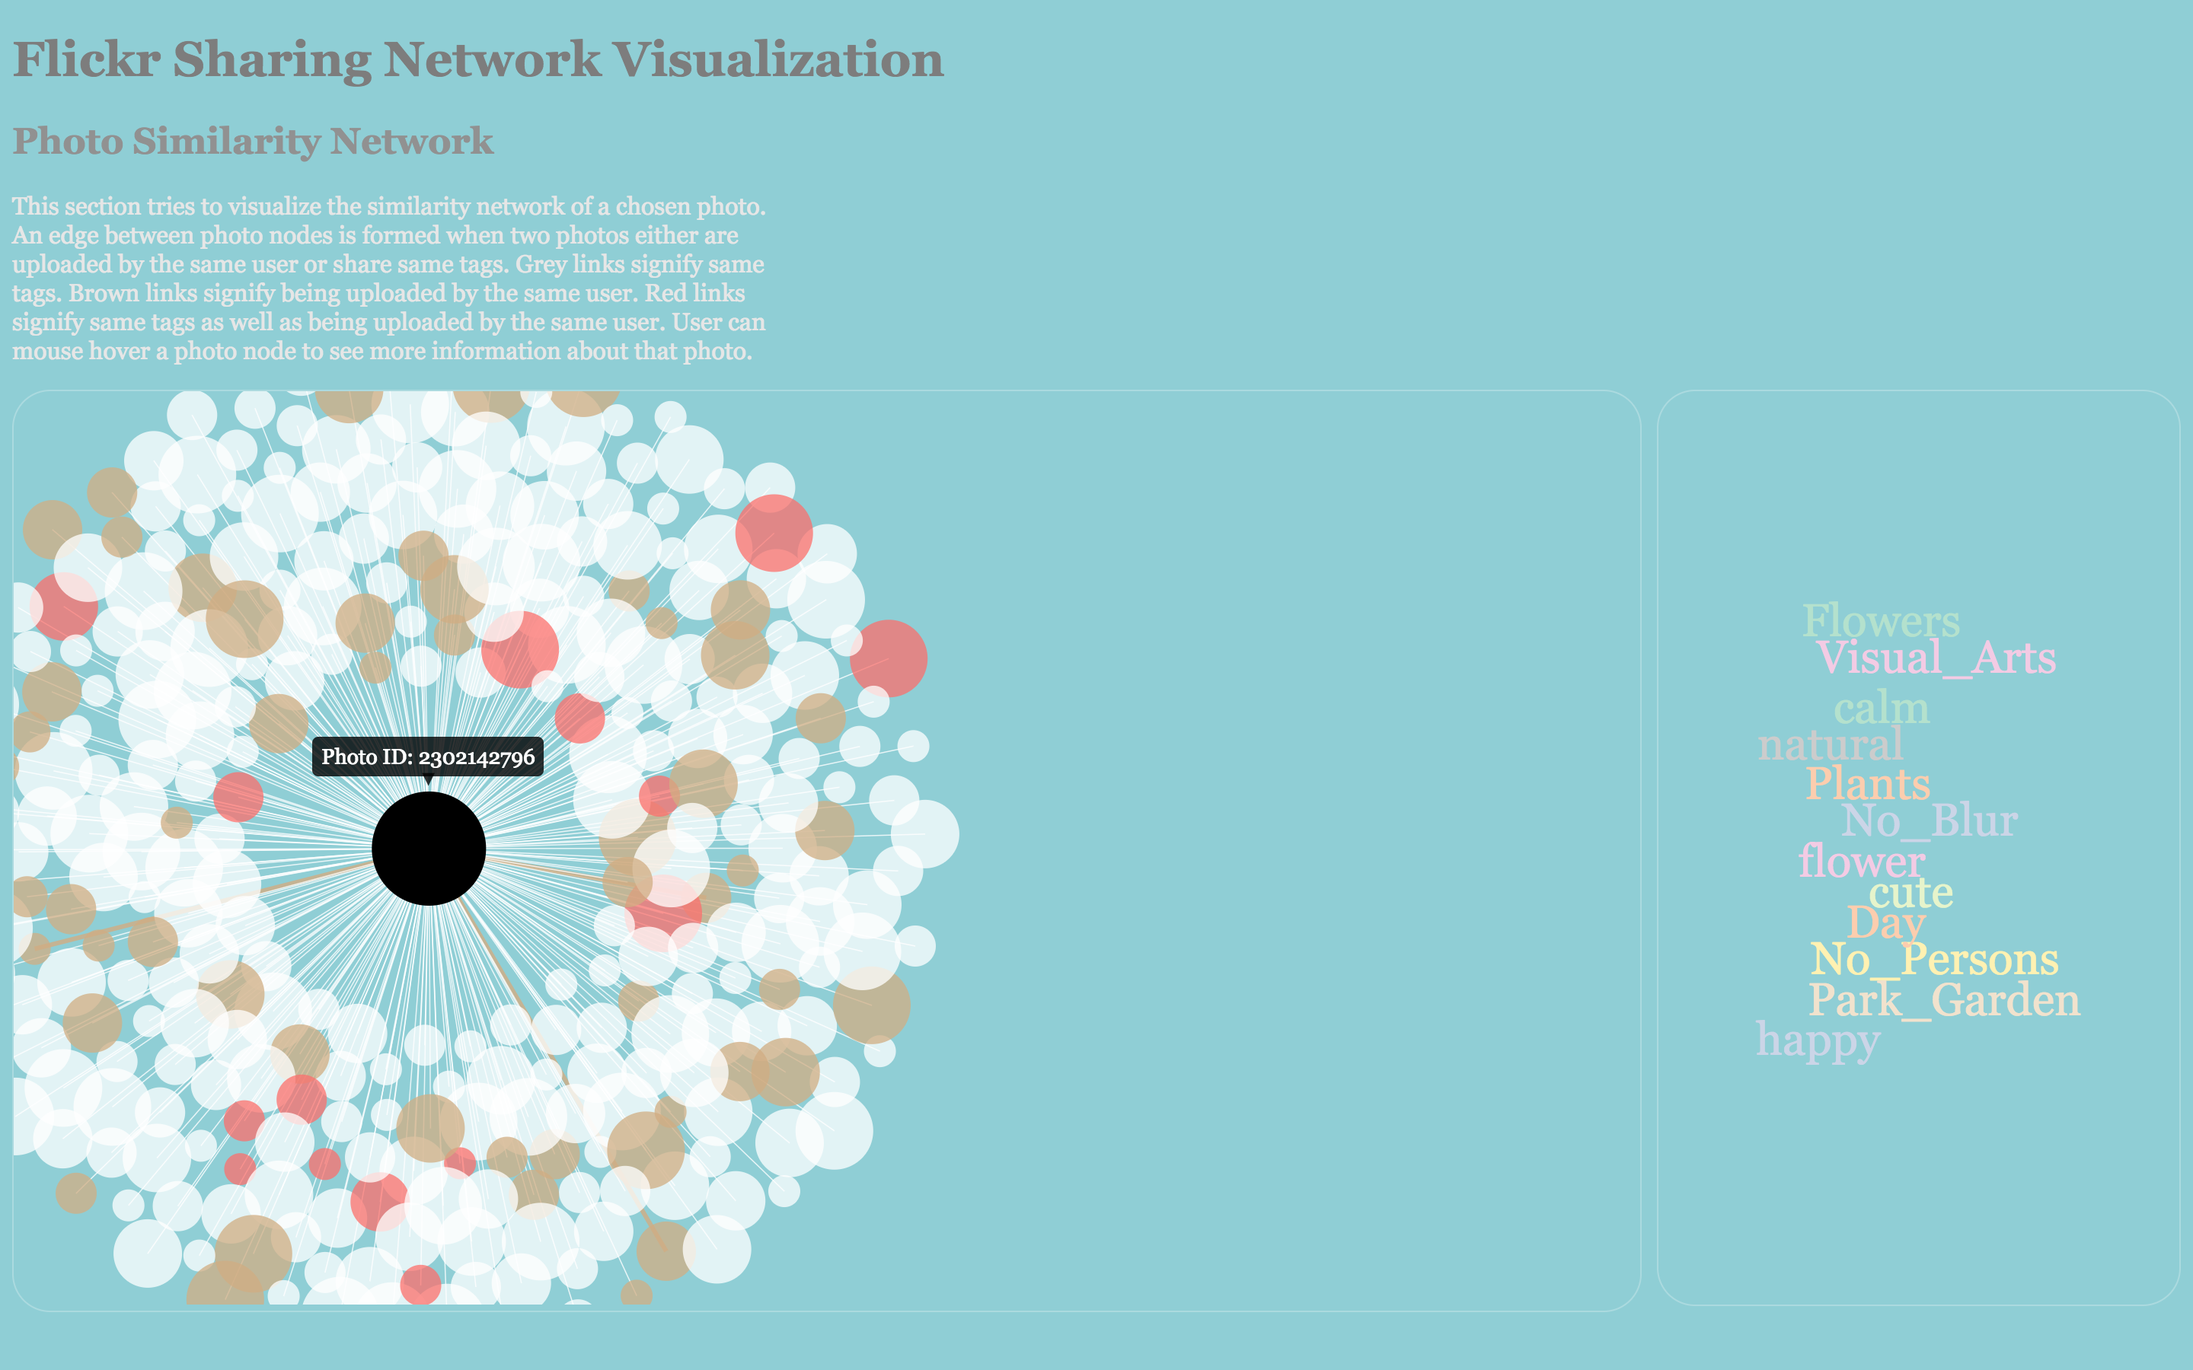
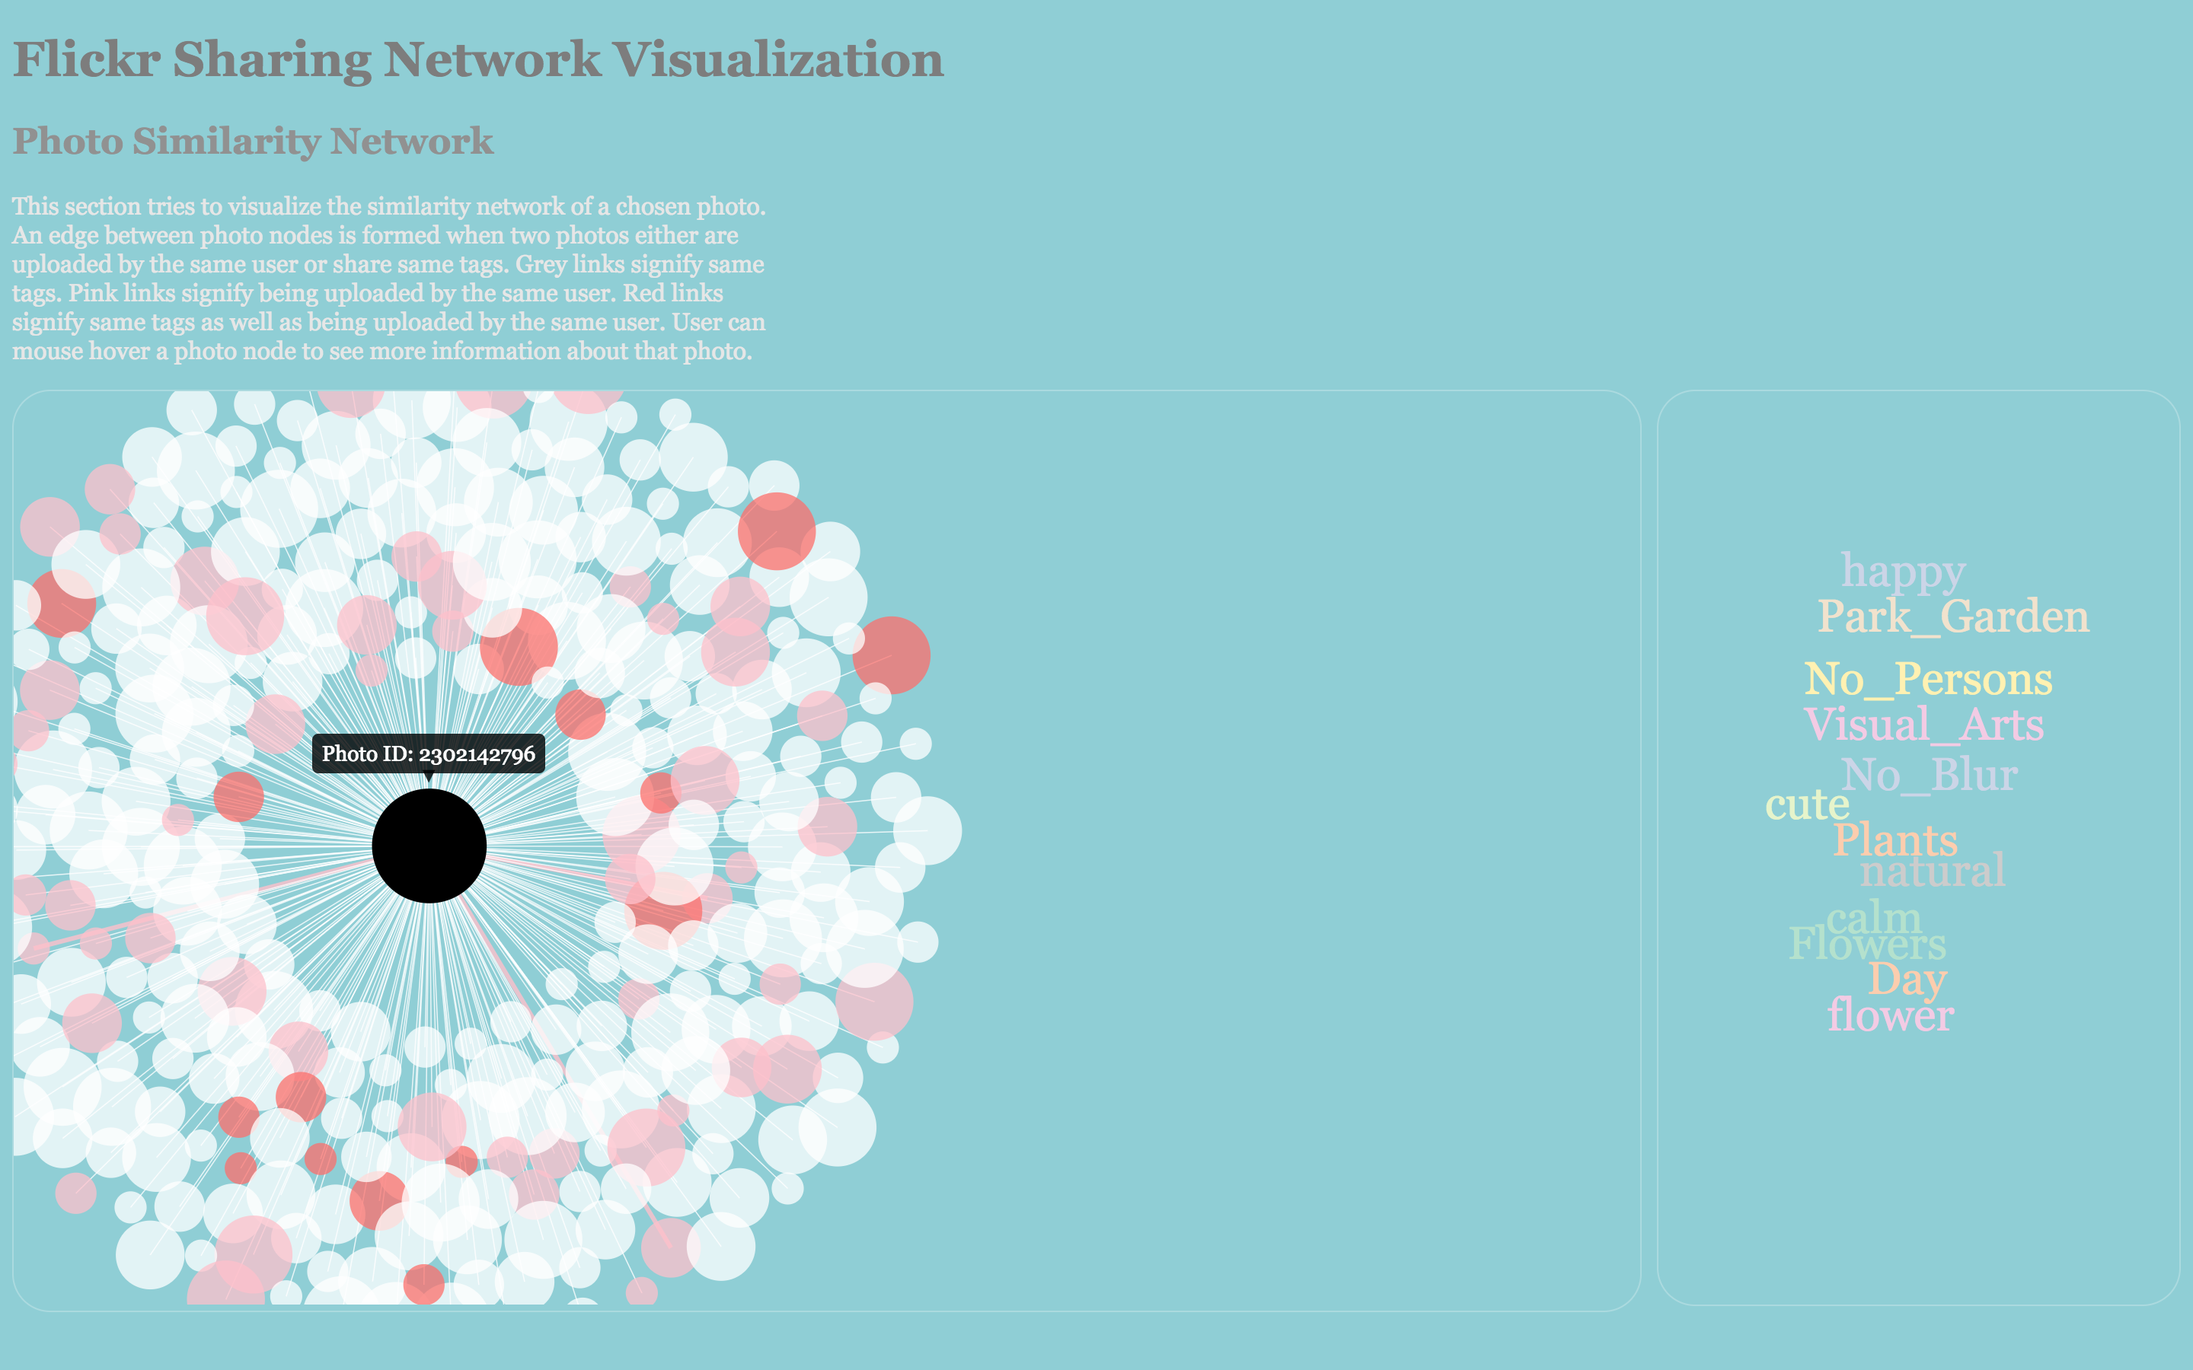
Added video and live demo

diff --git a/src/comment_network.js b/src/comment_network.js
@@ -14,6 +14,10 @@ function draw_comment_network() {
             .force("charge", d3.forceManyBody())
             .force("center", d3.forceCenter(width / 5, height / 2));
 
+        var tip = d3.tip()
+            .attr('class', 'd3-tip')
+            .offset([-10, 0]);
+
         function initialize_comment_network_data(index) {
             var user_row = user_info_data[index];
             var target_nodes = [];
@@ -36,15 +40,8 @@ function draw_comment_network() {
                 }
                 if (to_add) {
                     var username = "";
-                    var realname = "";
-                    for (key in user_info_data) {
-                        if (node_id == user_info_data[key]["id"]) {
-                            username = user_info_data[key]["username"];
-                            realname = user_info_data[key]["realname"];
-                        }
-                    }
-
-                    nodes_data[counter] = { "id": node_id, "username": username, "realname": realname,
+                    username = nodes_data[0]["commentedby-usernames"][i];
+                    nodes_data[counter] = { "id": node_id, "username": username,
                                             "type": "comment", "radius": 15 + 2 * Math.random() };
                     counter++;
                 }
@@ -52,9 +49,9 @@ function draw_comment_network() {
 
             for (i = 0; i < target_nodes.length; i++) {
                 var node_id = target_nodes[i];
-                links_data[i] = { "source": user_row["id"], "target": node_id, "type": "comment", "length": 105 + 10 * Math.random() };
+                links_data[i] = { "source": user_row["id"], "target": node_id, "type": "comment", "length": 100 + 100 * Math.random() };
             }
-
+            console.log(nodes_data);
         }
 
         function update_comment_network() {
@@ -69,7 +66,8 @@ function draw_comment_network() {
             if (!updated)
                 create_network();
             else
-                update_comment_network();
+                update_network();
+
 
             nodes_data = [];
             links_data = [];
@@ -82,7 +80,6 @@ function draw_comment_network() {
         update_comment_network();
 
         function create_network() {
-
             var svg = d3.select("#comment-network")
                 .append("svg")
                 .attr("class", "svg-container")
@@ -91,9 +88,6 @@ function draw_comment_network() {
             var g = svg.append("g")
                 .attr("id", "g-comment-network");
 
-            var tip = d3.tip()
-                .attr('class', 'd3-tip')
-                .offset([-10, 0]);
             g.call(tip);
 
             var link = g.append("g").attr("class", "links")
@@ -118,7 +112,7 @@ function draw_comment_network() {
                                             return d.radius;
                                         }
                                     });
-                                var tip_message = "User ID: " + d["id"] + "<br>Username: " + d["username"] + "<br>Real name: " + d["realname"];
+                                var tip_message = "User ID: " + d["id"] + "<br>Username: " + d["username"];
                                 tip.html(tip_message);
                                 tip.show();
                                 link.style('stroke-width', function(l) {
@@ -148,13 +142,12 @@ function draw_comment_network() {
                 .scaleExtent([1, 8])
                 .translateExtent([[-100, -100], [width + 100, height + 100]])
                 .on("zoom", zoomed);
-            zoom.scaleBy(svg, 1.5);
+            zoom.scaleBy(svg, 2);
             svg.call(zoom);
 
             var html_message = "<br><br>";
-            for (key in nodes_data[0]["comments"]) {
-                html_message += "<em>" + nodes_data[0]["commentedby-usernames"][key] + "</em>: " + nodes_data[0]["comments"][key] + "<br><br>";
-            }
+            for (key in nodes_data[0]["comments"])
+                html_message += "<span class='emphasized' style='color:black'>" + nodes_data[0]["commentedby-usernames"][key] + "</span>: " + nodes_data[0]["comments"][key] + "<br><br>";
             d3.select("#comment-container").html(html_message);
 
             function ticked() {
@@ -173,6 +166,84 @@ function draw_comment_network() {
         }
 
         function update_network() {
+
+            var svg = d3.select("#comment-network").select("svg");
+            var g = d3.select("#g-comment-network");
+
+            g.call(tip);
+
+            g.select(".links").selectAll("line").remove();
+            g.select(".nodes").selectAll("circle").remove();
+            d3.select("#comment-container").html("");
+
+            var link = g.select(".links")
+                .selectAll("line").data(links_data).enter()
+                .append("line")
+                    .attr("class", function(d) {
+                        return d.type;
+                    });
+
+            var node = g.select(".nodes")
+                        .selectAll("circle").data(nodes_data).enter()
+                        .append("circle")
+                            .attr("r", function(d) { return d.radius; })
+                            .attr("class", function(d) { return d.type; })
+                            .on("mouseover", function(d) {
+                                d3.select(this)
+                                    .transition().duration(200)
+                                    .attr("r", function(d) {
+                                        if (d.type != "center")
+                                            return 2 * d.radius > 35 ? 35 : 2 * d.radius
+                                        else {
+                                            return d.radius;
+                                        }
+                                    });
+                                var tip_message = "User ID: " + d["id"] + "<br>Username: " + d["username"];
+                                tip.html(tip_message);
+                                tip.show();
+                                link.style('stroke-width', function(l) {
+                                    if (d == l.target)
+                                        return 10;
+                                });
+                            })
+                            .on('mouseout', function(d) {
+                                d3.select(this)
+                                .transition().duration(200)
+                                .attr("r", function(d) { return d.radius; });
+                                tip.hide();
+                                link.style('stroke-width', function(l) {
+                                    if (d == l.target)
+                                        return 1;
+                                });
+                            })
+                            .call(d3.drag()
+                                    .on("start", dragstarted)
+                                    .on("drag", dragged)
+                                    .on("end", dragended));
+
+            simulation.nodes(nodes_data).on("tick", ticked);
+            simulation.force("link").links(links_data).distance(function(d) { return d.length; });
+
+
+            var html_message = "<br><br>";
+            for (key in nodes_data[0]["comments"]) {
+                html_message += "<span class='emphasized' style='color:black'>" + nodes_data[0]["commentedby-usernames"][key] + "</span>: " + nodes_data[0]["comments"][key] + "<br><br>";
+            }
+            d3.select("#comment-container").html(html_message);
+
+            function ticked() {
+                link.attr("x1", function(d) { return d.source.x; })
+                    .attr("y1", function(d) { return d.source.y; })
+                    .attr("x2", function(d) { return d.target.x; })
+                    .attr("y2", function(d) { return d.target.y; });
+
+                node.attr("cx", function(d) { return d.x; })
+                    .attr("cy", function(d) { return d.y; });
+            }
+
+            function zoomed() {
+                g.attr("transform", d3.event.transform);
+            }
 
         }
 

diff --git a/index.html b/index.html
@@ -26,9 +26,14 @@
                 <p>
                     This section tries to visualize the similarity network of a chosen photo.
                     An edge between photo nodes is formed when two photos either are uploaded by the same user or share same tags.
-                    Grey links signify same tags. Brown links signify being uploaded by the same user.
-                    Red links signify same tags as well as being uploaded by the same user.
+                    White links indicate same tags, pink links indicate being uploaded by the same user, and red links indicate a combination of both attributes.
                     User can mouse hover a photo node to see more information about that photo.
+                    <br>
+                    <br>
+                    The radius of a user node indicates the total number of comments that the user has received from other users, which can be regarded as the popularity of that user.
+                    The length of the edge connecting two user nodes indicates the time duration between the comment date and the current date.
+                    So essentially, the bigger the user node is, the more popular the user is, and the shorter the edge is, the more recent the commenting activity is.
+                    Since the data is outdated, the current date is assumed to be the most current comment date among all the outter users' comment dates.
                 </p>
             </div>
             <div class="main-container">
@@ -46,10 +51,8 @@
                 <h3>• Who is commenting on your photo?</h3>
                 <p>
                     The network shows the users who have commented on the photo(s) that the central user posted.
-                    The radius of a user node signifies the total number of comments that the user has received, which can be regarded as the popularity of that user.
-                    The length of the edge connecting two user nodes signifies the time duration between the non-central user's comment date and the current date.
-                    The shorter the edge is, the most recent the commenting activity between two users was.
-                    Since the data is outdated, the current date is assumed to be the most current comment date among all the non-central users' comment dates.
+                    Similar to the photo similarity network, the radius of a user node indicates the popularity of that user and the length of the edge connecting two user nodes indicates the time duration between the comment date and the current date.
+                    So essentially, the bigger the user node is, the more popular the user is, and the shorter the edge is, the more recent the commenting activity is.
                 </p>
             </div>
             <div class="main-container">

diff --git a/src/style.css b/src/style.css
@@ -9,6 +9,10 @@ body {
     color: rgb(230, 230, 230);
 }
 
+p {
+    font-size: 16px;
+}
+
 h1 {
     color: rgb(125, 125, 125);
 }
@@ -50,7 +54,7 @@ div.border button {
     color: #fff;
     width: 140px;
     height: 40px;
-    font-size: 16px;
+    font-size: 18px;
     font-family: Serif;
     background: rgba(0, 0, 0, 0);
     border: solid 1px #fff;
@@ -59,9 +63,12 @@ div.border button {
     margin-left: auto;
 }
 
-.links line {
-    stroke-opacity: 0.8;
+
+span.emphasized {
+    font-style: italic;
+    font-weight: bold;
 }
+
 
 #g-comment-network .links line {
     stroke: rgb(238, 248, 255);
@@ -75,16 +82,23 @@ div.border button {
     opacity: 0.85;
 }
 
+
+
+
 .links line.tag {
     stroke-width: 0.5px;
     stroke: rgb(255, 255, 255);
 }
 
 .links line.user {
-    stroke: rgb(210, 173, 128);
     stroke-width: 2px;
+    stroke: rgb(255, 192, 203);
 }
 
+.links line.userandtag {
+    stroke-width: 2px;
+    stroke: rgb(255, 111, 105);
+}
 
 .nodes circle {
     stroke-width: 0px;
@@ -96,7 +110,7 @@ div.border button {
 }
 
 .nodes circle.user {
-    fill: rgb(210, 173, 128);
+    fill: rgb(255, 192, 203);
 }
 
 .nodes circle.userandtag {
@@ -111,7 +125,7 @@ div.border button {
 }
 
 .nodes circle.user:hover {
-    fill: rgb(210, 173, 128);
+    fill: rgb(255, 192, 203);
 }
 
 .nodes circle.userandtag:hover {
@@ -131,7 +145,7 @@ div.border button {
 .d3-tip:after {
     box-sizing: border-box;
     display: inline;
-    font-size: 10px;
+    font-size: 12px;
     width: 100%;
     line-height: 1;
     color: rgba(0, 0, 0, 0.8);
@@ -159,7 +173,7 @@ div.border button {
 
 .description {
     display: block;
-    width: 35%;
+    width: 45%;
 }
 
 .visualization-container {

diff --git a/src/chart.js b/src/chart.js
@@ -5,7 +5,6 @@ function draw_chart() {
     d3.csv(user_info_path, function(error, user_info_data) {
         if (error) throw error;
 
-
         var data = [{data: {}}];
         var keys = null;
         var maxVal;
@@ -15,10 +14,10 @@ function draw_chart() {
         var html_message = "";
         function initialize_data(index) {
             keys = user_info_data[index]['photos-labels'].split('|');
-            html_message = "<br>User ID: " + user_info_data[index]['id'] + "<br>" +
-                            "Username: " + user_info_data[index]['username'] + "<br>" +
-                            "Real name: " + user_info_data[index]['realname'] + "<br>" +
-                            "Location: " + user_info_data[index]['location'] + "<br>";
+            html_message = "<br><span class='emphasized'>User ID</span>: " + user_info_data[index]['id'] + "<br>" +
+                            "<span class='emphasized'>Username</span>: " + user_info_data[index]['username'] + "<br>" +
+                            "<span class='emphasized'>Real name</span>: " + user_info_data[index]['realname'] + "<br>" +
+                            "<span class='emphasized'>Location</span>: " + user_info_data[index]['location'] + "<br>";
 
             for (var i = 0; i < keys.length; i++) {
                 var key_to_count = keys[i];

diff --git a/src/network.js b/src/network.js
@@ -134,14 +134,15 @@ function draw_photo_similarity_network() {
 
             function draw_word_cloud(labels) {
                 var frequency_list = []
-                for (label in labels)
-                    frequency_list.push({ "text": labels[label], "size": 30 });
+                for (key in labels)
+                    frequency_list.push({ "text": labels[key].toLowerCase(), "size": 30 + Math.random() * 70 });
 
                 var color = d3.scaleOrdinal(d3.schemePastel2);
 
                 d3.layout.cloud().size([200, 600])
                     .words(frequency_list)
-                    .rotate(0)
+                    .rotate(function() { return Math.floor(Math.random() * 1) * 90; })
+                    .font("Impact")
                     .fontSize(function(d) { return d.size; })
                     .on("end", draw)
                     .start();

diff --git a/README.md b/README.md
@@ -1,8 +1,10 @@
 # Visualize Flickr Sharing Network
+The project presents three visualizations as the analytical tools to study a user’s sharing behavior. The three visualizations are respectively, the photo similarity network for a given photo, the comment network for a given user and the photo-type radial chart for a given user.The goal is to provide users with efficient visual analytical tools to help them better understand and manage their sharing behavior.
 
+[Video demo](https://vimeo.com/195184246)
+[Live demo](https://d27leq7jbupq0f.cloudfront.net)
 
 - Screenshots of the final release:
-
 ![Demo 1](https://raw.githubusercontent.com/kelvinhu9988/flickr-sharing-network-visualization/master/demo/Final_Release_Demo_1.png)
 ![Demo 2](https://raw.githubusercontent.com/kelvinhu9988/flickr-sharing-network-visualization/master/demo/Final_Release_Demo_2.png)
 ![Demo 3](https://raw.githubusercontent.com/kelvinhu9988/flickr-sharing-network-visualization/master/demo/Final_Release_Demo_3.png)
